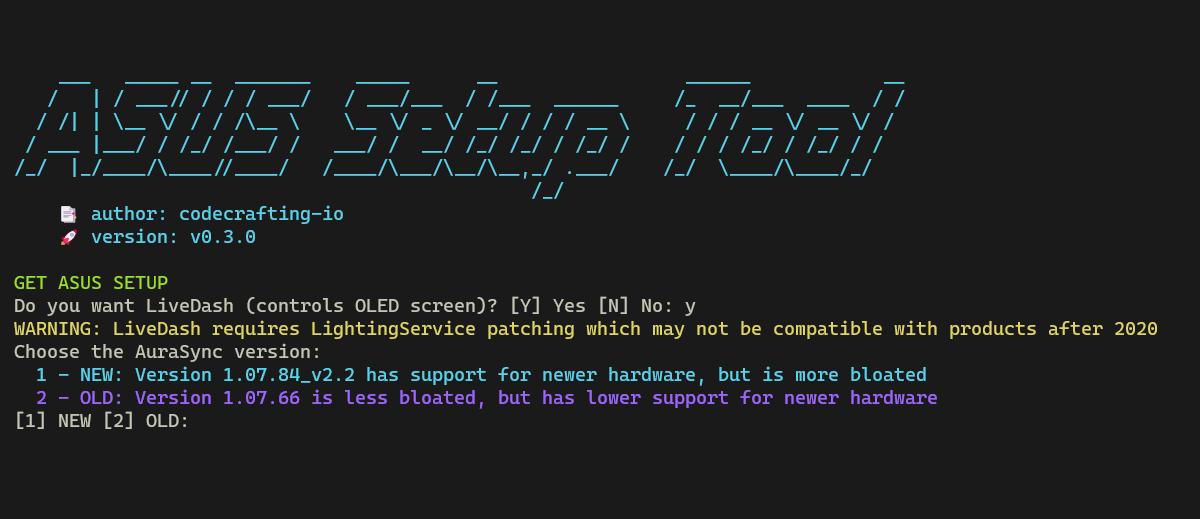
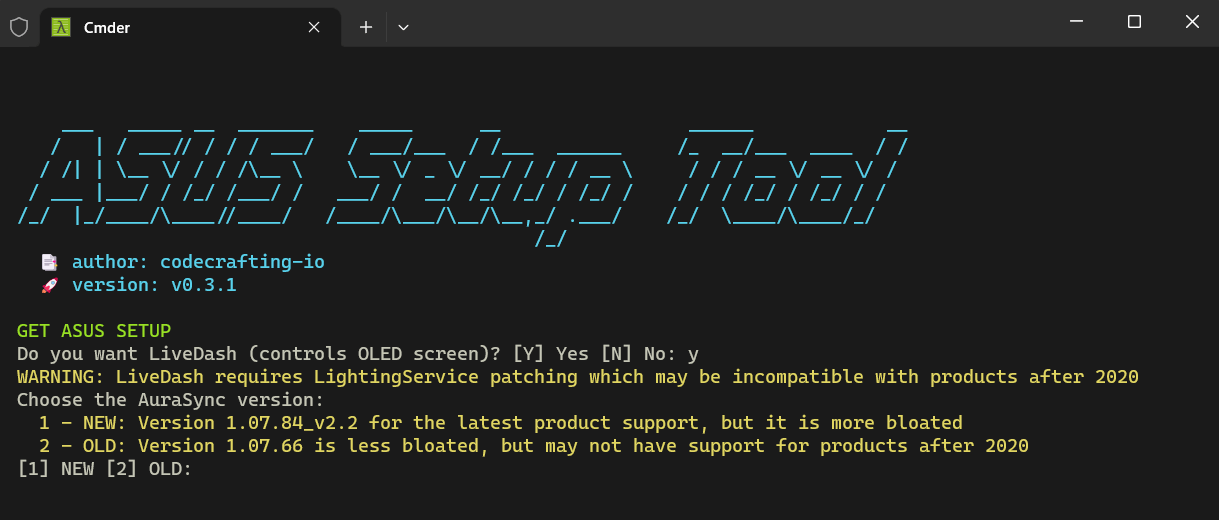
Revision for AuraSync version message

diff --git a/README.md b/README.md
@@ -34,8 +34,8 @@ This is an PowerShell script tool that manages the setup installation for the le
 
 - Choose if you want to install LiveDash. **The installation of LiveDash requires patching LightingService, which may lead to incompatibility for products launched after 2020. This will also affect AuraSync installation.**
 - Choose which version of AuraSync you want, by typing `1` or `2`:
-  - 1 - NEW: Version **1.07.84_v2.2** if you want latest hardware support available, but this version has more bloated modules, which leads to more processes running on the system.
-  - 2 - OLD: Version **1.07.66** has a less bloated module installation, but with lower support for newer hardware.
+  - 1 - NEW: Version **1.07.84_v2.2** if you want the latest hardware support available, but this version has more bloated modules, which leads to more processes running on the system.
+  - 2 - OLD: Version **1.07.66** has a less bloated module installation, but may not have support for products launched after 2020.
 
     ![ASUS Setup Tool AuraSync version](/Source/Images/screen3.png?raw=true)
 
